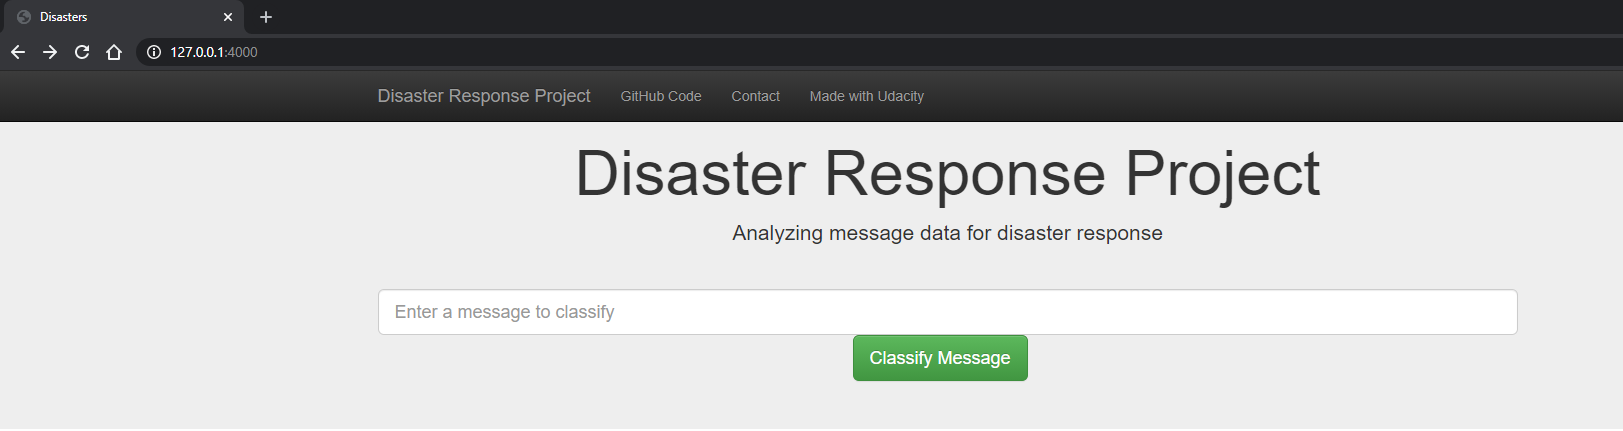
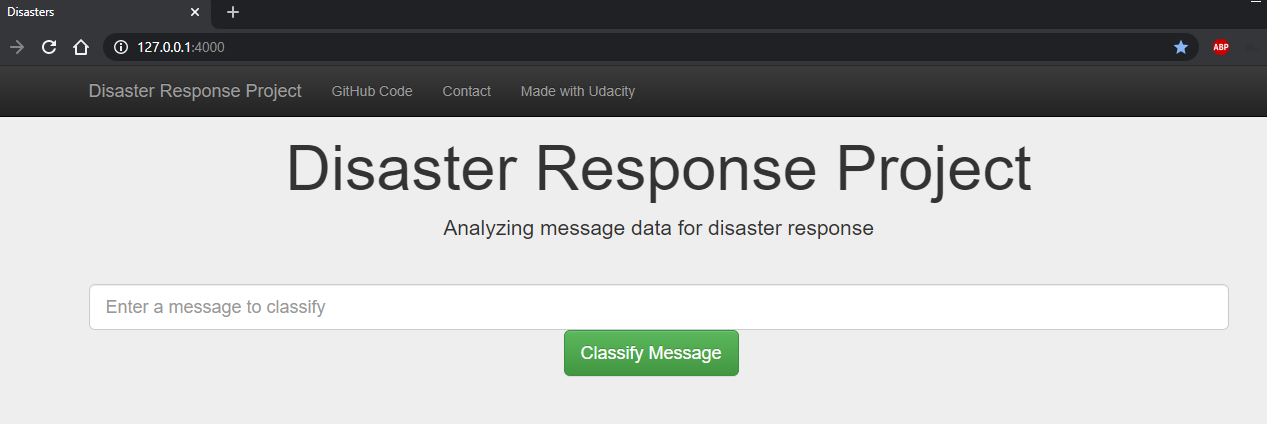
Update README

diff --git a/README.md b/README.md
@@ -1,14 +1,119 @@
 # Disaster Response Pipeline Project
+![Home Pic](img/home.png)
 
-### Instructions:
-1. Run the following commands in the project's root directory to set up your database and model.
 
-    - To run ETL pipeline that cleans data and stores in database
-        `python data/process_data.py data/disaster_messages.csv data/disaster_categories.csv data/DisasterResponse.db`
-    - To run ML pipeline that trains classifier and saves
-        `python models/train_classifier.py data/DisasterResponse.db models/classifier.pkl`
+### Table of Contents
+1. [Introduction](#introduction)
+2. [Project Components](#components)
+  1. [ETL Pipeline](#etlpipe)
+  2. [ML Pipeline](#mlpipe)
+  3. [Flask Web App](#webapp)
+3. [Program](#program)
+  1. [Dependencies](#dependencies)
+  2. [Running](#running)
+  3. [Additional Material](#additional)
+4. [Acknowledgement](#acknowledgement)
+5. [Screenshots](#screenshots)
 
-2. Run the following command in the app's directory to run your web app.
+
+<a name='introduction'></a>
+### Introduction:
+This Project is part of the Data Science Nanodegree Program given by Udacity in
+collaboration with Figure Eight.
+
+The initial dataset contains pre-labelled messages that were sent during
+disaster events.
+
+The aim of the project is to build a Natural Processing tool to categorize
+messages.
+
+
+<a name='components'></a>
+### Project components
+There are three main components.
+
+
+<a name='etlpip'></a>
+#### ETL Pipeline
+File `process_data.py` contains a ETL (Extract, Transform and Load
+  Pipeline) that:
+- Loads the `messages` and `categories` datasets
+- Merges the two datasets
+- Cleans the data
+- Stores it in a SQLite database
+
+
+<a name='mlpipe'></a>
+#### ML Pipeline
+File `train_classifier.py` contains a Machine Learning Pipeline that:
+- Loads data from the SQLite database
+- Splits the dataset into training and test sets
+- Builds a text processing and machine learning pipeline
+- Trains and tunes a model using GridSearchCV
+- Outputs results on the test set
+- Exports the final model as a pickle file
+
+
+<a name='webapp'></a>
+#### Flask Web App
+File `run.py` builds a webapp where users can input a message and it will be
+classified with the previously trained model.
+
+<a name='program'></a>
+### Program
+
+
+<a name='dependencies'></a>
+#### Dependencies
+* Python 3.5+
+* Machine Learning Libraries: NumPy, Pandas, Scikit-Learn
+* Natural Language Process Libraries: NLTK
+* SQLlite Database Libraries: SQLalchemy
+* Web App and Data Visualization: Flask, Plotly
+
+
+<a name='running'></a>
+#### Running:
+Run the following commands in the project's root directory to set up your
+database and model.
+Note that steps 1 and 2 (ETL and ML) are optional because the model already
+trained is in the repository.
+
+1. To run the ETL pipeline that cleans data and stores in database:
+    `python data/process_data.py data/disaster_messages.csv data/disaster_categories.csv data/DisasterResponse.db`
+2. To run the ML pipeline that trains and saves the classifier:
+    `python models/train_classifier.py data/DisasterResponse.db models/classifier.pkl`
+3. To run the webapp (run it from the app's directory):
     `python run.py`
+4. Go to http://127.0.0.1:4000/
 
-3. Go to http://0.0.0.0:3001/ -> **http://127.0.0.1:4000/**
+
+<a name='Additional'></a>
+#### Additional Material
+In the `Notebooks` directory, you may find ETL and ML Pipelines in a Jupyter
+Notebook that may help you understand how the model work step by step.
+
+Please note that ML Pipeline contained in the notebook (.ipynb) has parameter
+tunning whereas the one in the script (.py) format has the set of parameters
+fixed.
+
+You may find that the parameters of the script were not the optimal found in the
+notebook due to the large size of the pickle file (>100MB). By simplifying the
+parameters, pickle size file was considerably reduced.
+
+
+<a name="acknowledgement"></a>
+### Acknowledgements
+* [Udacity](https://www.udacity.com/) for providing such a complete Data Science
+Nanodegree Program
+* [Figure Eight](https://www.figure-eight.com/) for providing the dataset.
+
+
+<a name="screenshots"></a>
+### Screenshots
+1. Home page - input section
+![Home](img/home.png)
+2. Home page - dataset overview section
+![dataset_overview](img/dataset_overview.png)
+3. Output - message classified
+![message_classified](img/message_classified.png)
